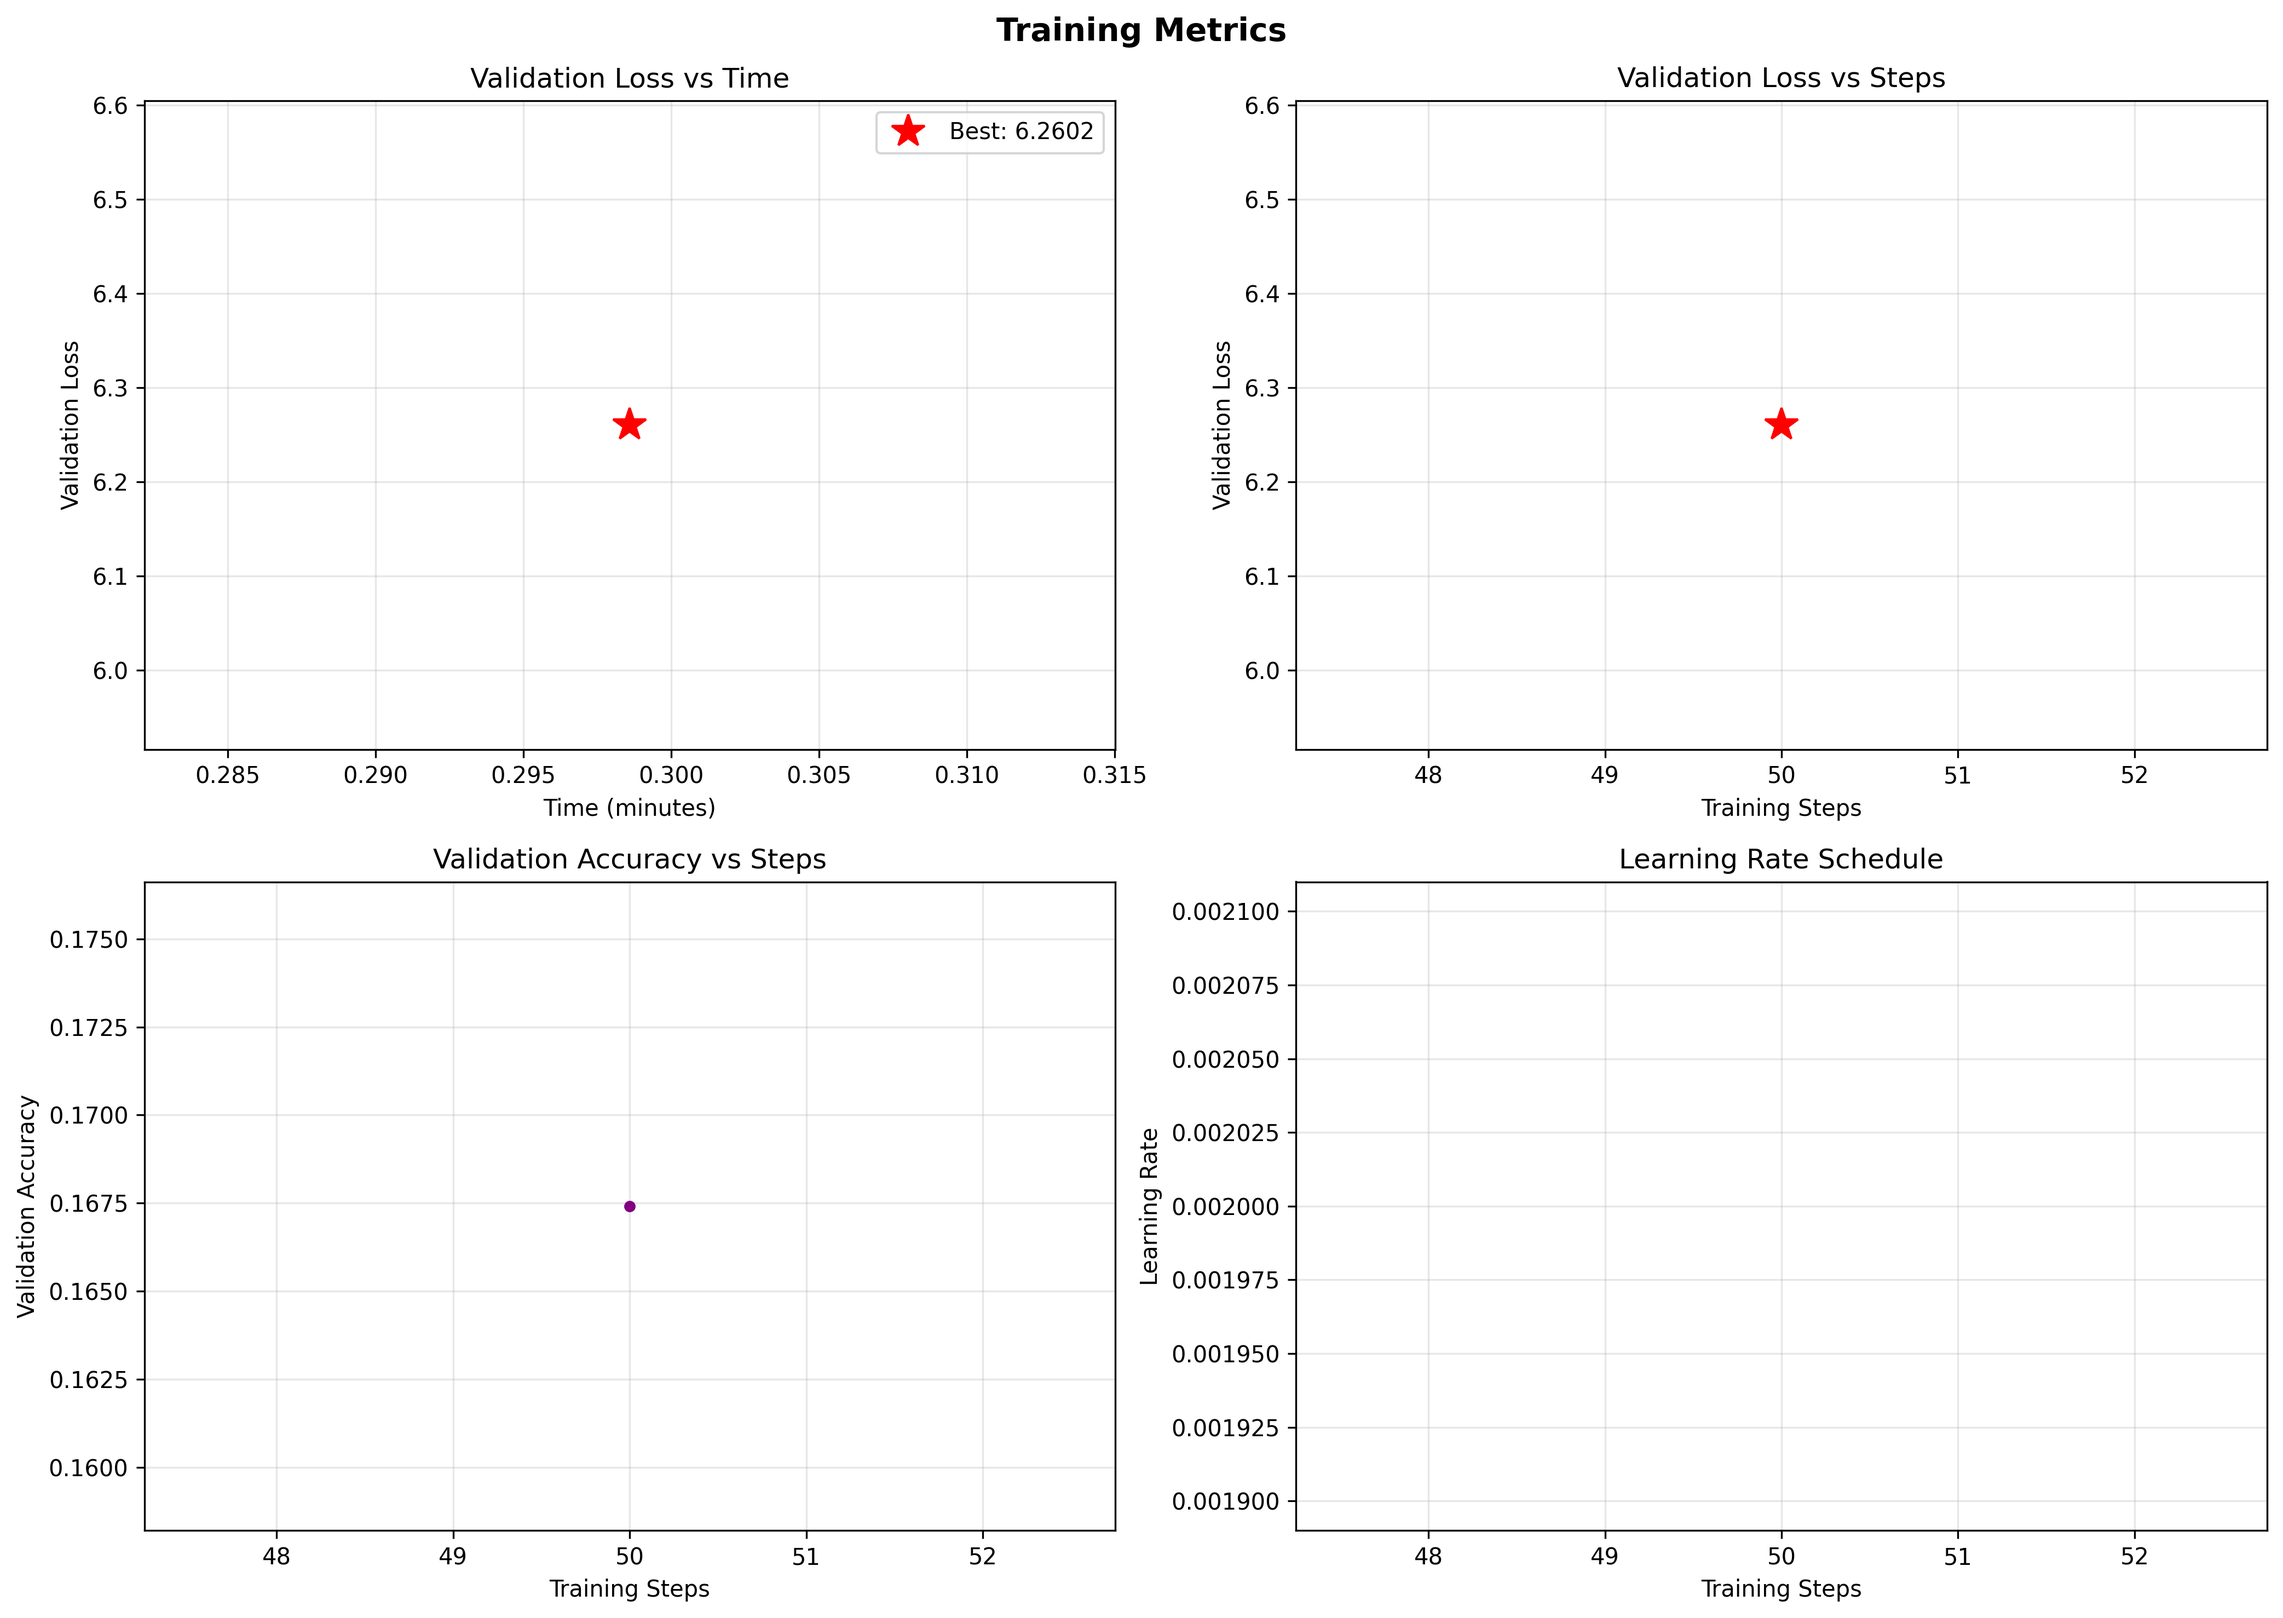
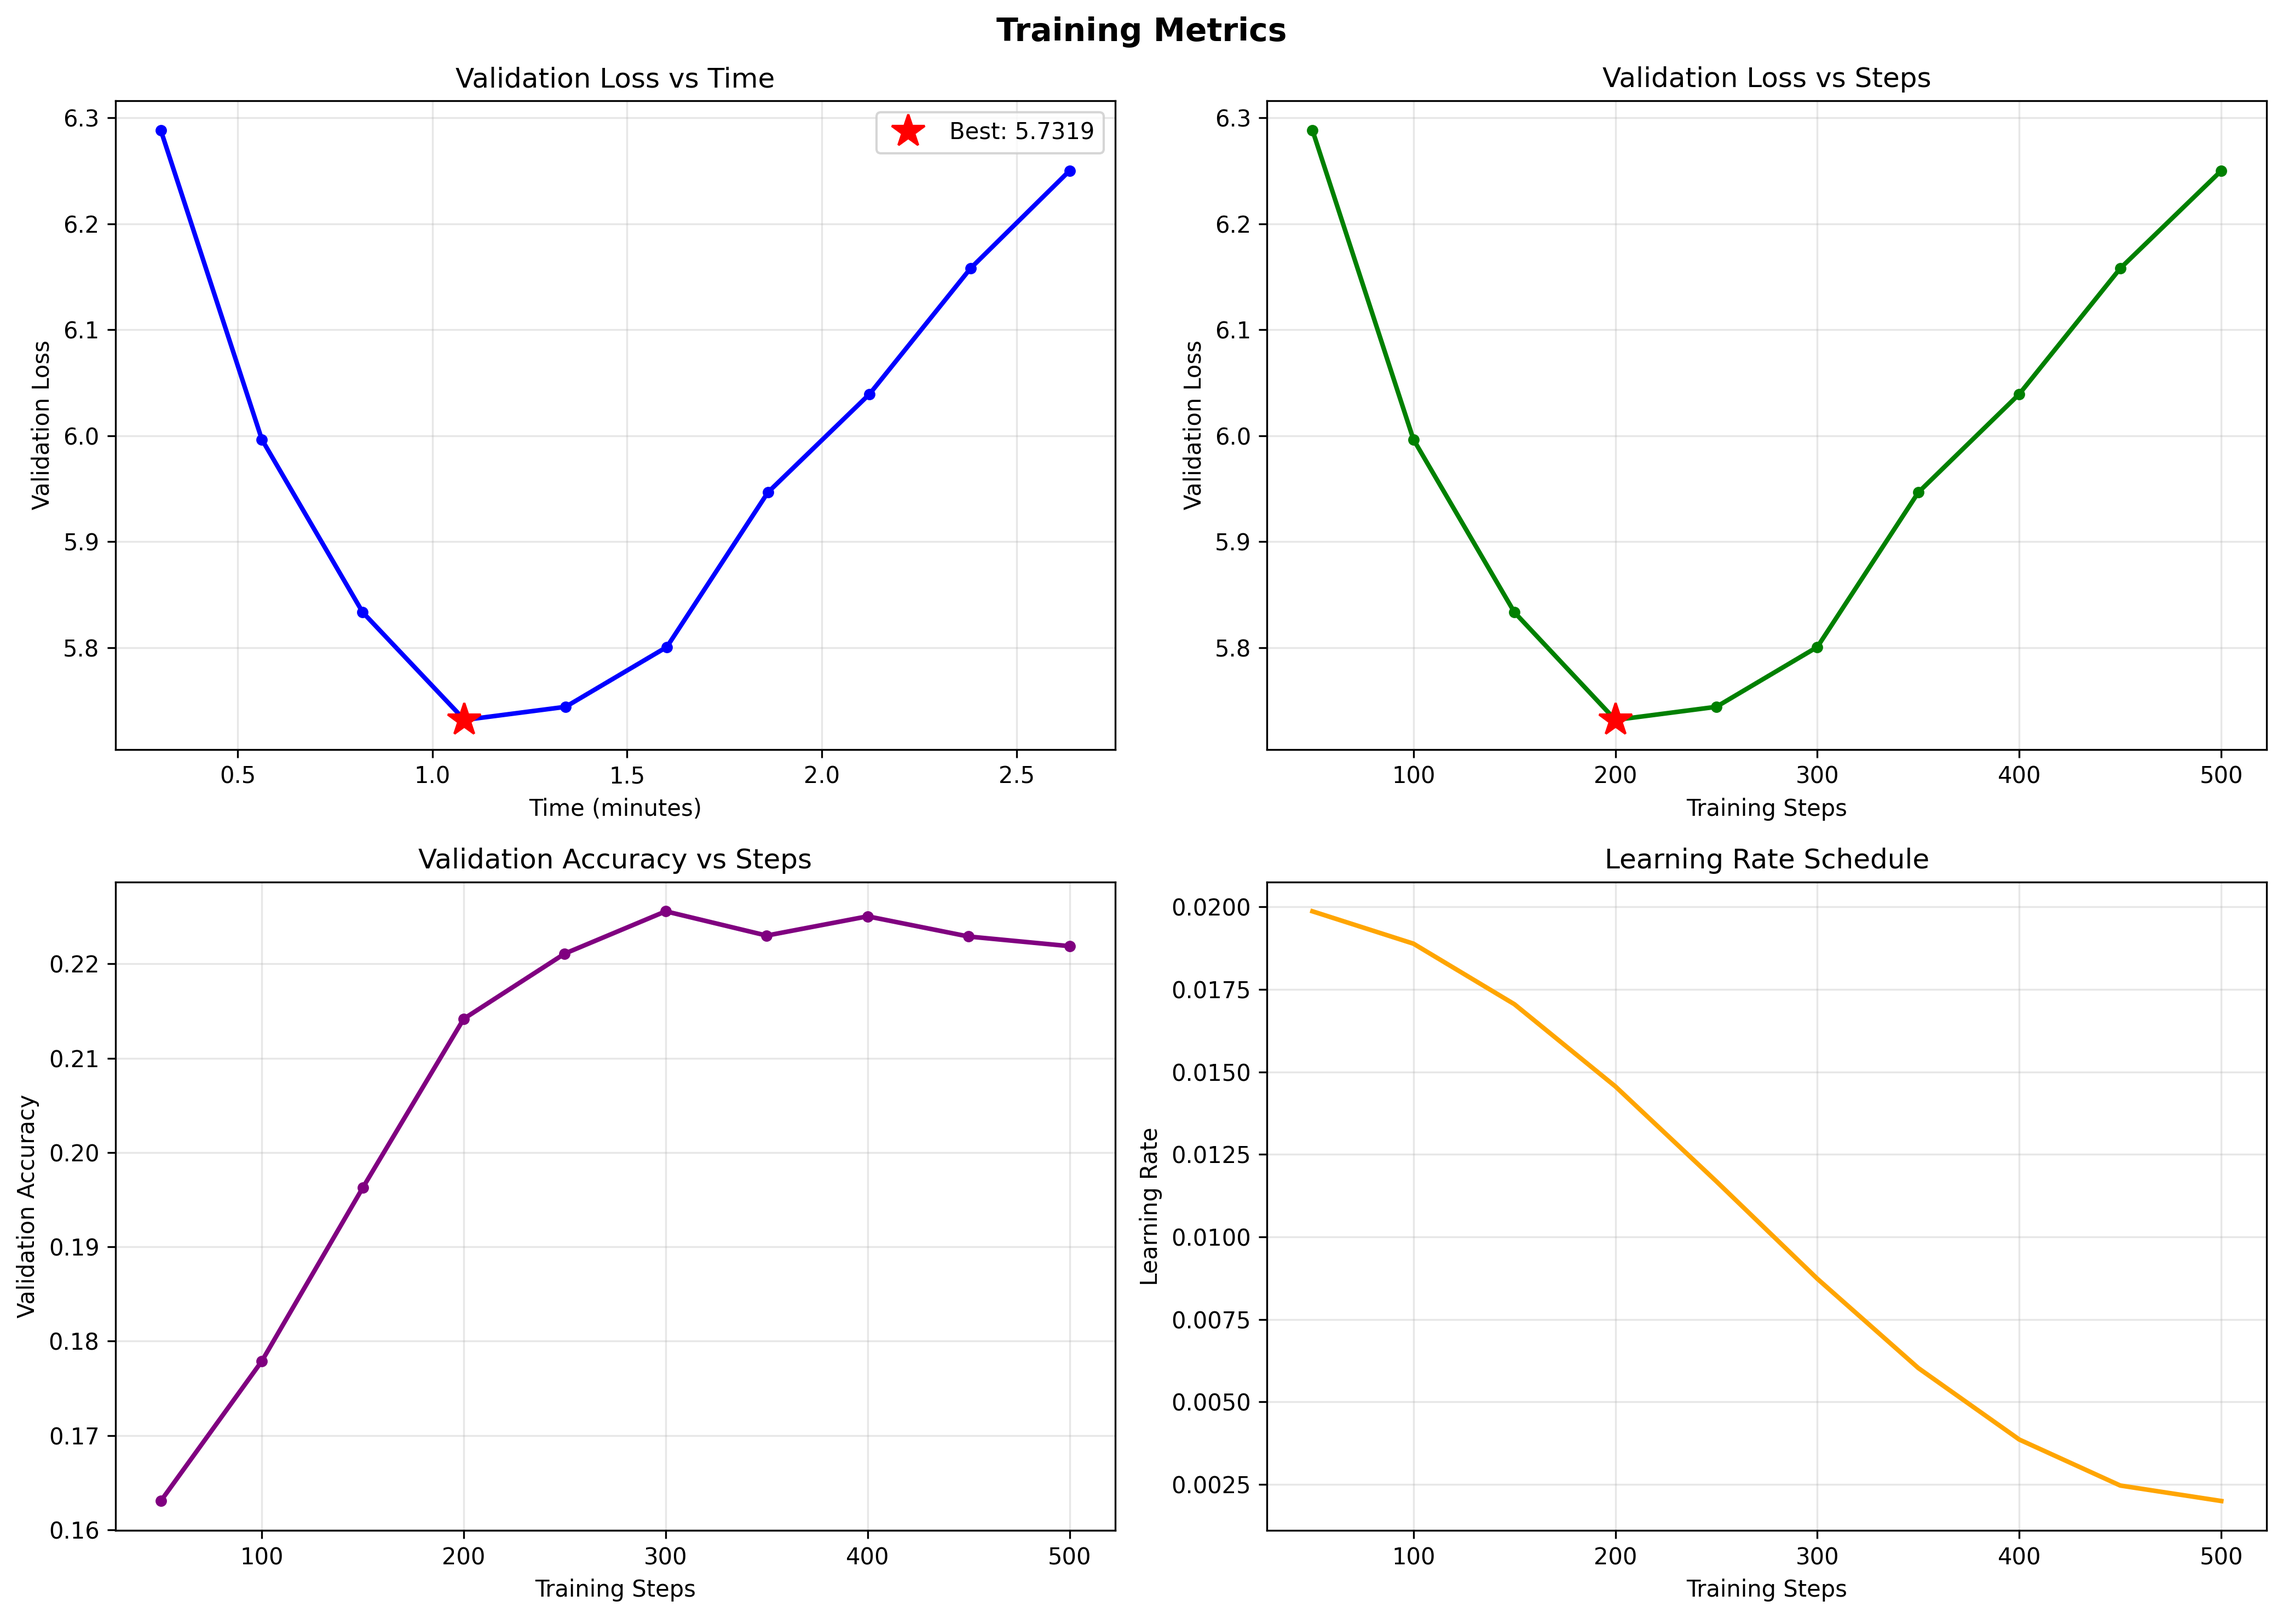
feat: Implement training data sufficiency check, increase `num_documents` in config, and update training metrics plots.

diff --git a/train_moe.py b/train_moe.py
@@ -94,6 +94,20 @@ def main():
     
     logger.info(f"Train sequences: {len(train_ds):,}, Val sequences: {len(val_ds):,}")
 
+    # Check for sufficient data
+    total_needed = config.max_steps * config.batch_size
+    if len(train_ds) < total_needed:
+        msg = (
+            f"Insufficient training data! "
+            f"Need {total_needed} sequences (max_steps={config.max_steps} * batch_size={config.batch_size}) "
+            f"but only have {len(train_ds)} sequences. "
+            f"The model will overfit if data repeats. "
+            f"To fix: increase num_documents (currently {config.num_documents}) "
+            f"or reduce max_steps."
+        )
+        logger.error(msg)
+        raise ValueError(msg)
+
     loader_args = dict(
         batch_size=config.batch_size,
         num_workers=2,

diff --git a/configs/moe_config.py b/configs/moe_config.py
@@ -71,7 +71,7 @@ class GPU24GBMoEModelConfig(MoEModelConfig):
     
     # Data
     max_seq_len: int = 1024
-    num_documents: int = 1000
+    num_documents: int = 10000
     
     # Reduced logging
     log_milestones: Tuple[int, ...] = (100, 200, 300)
